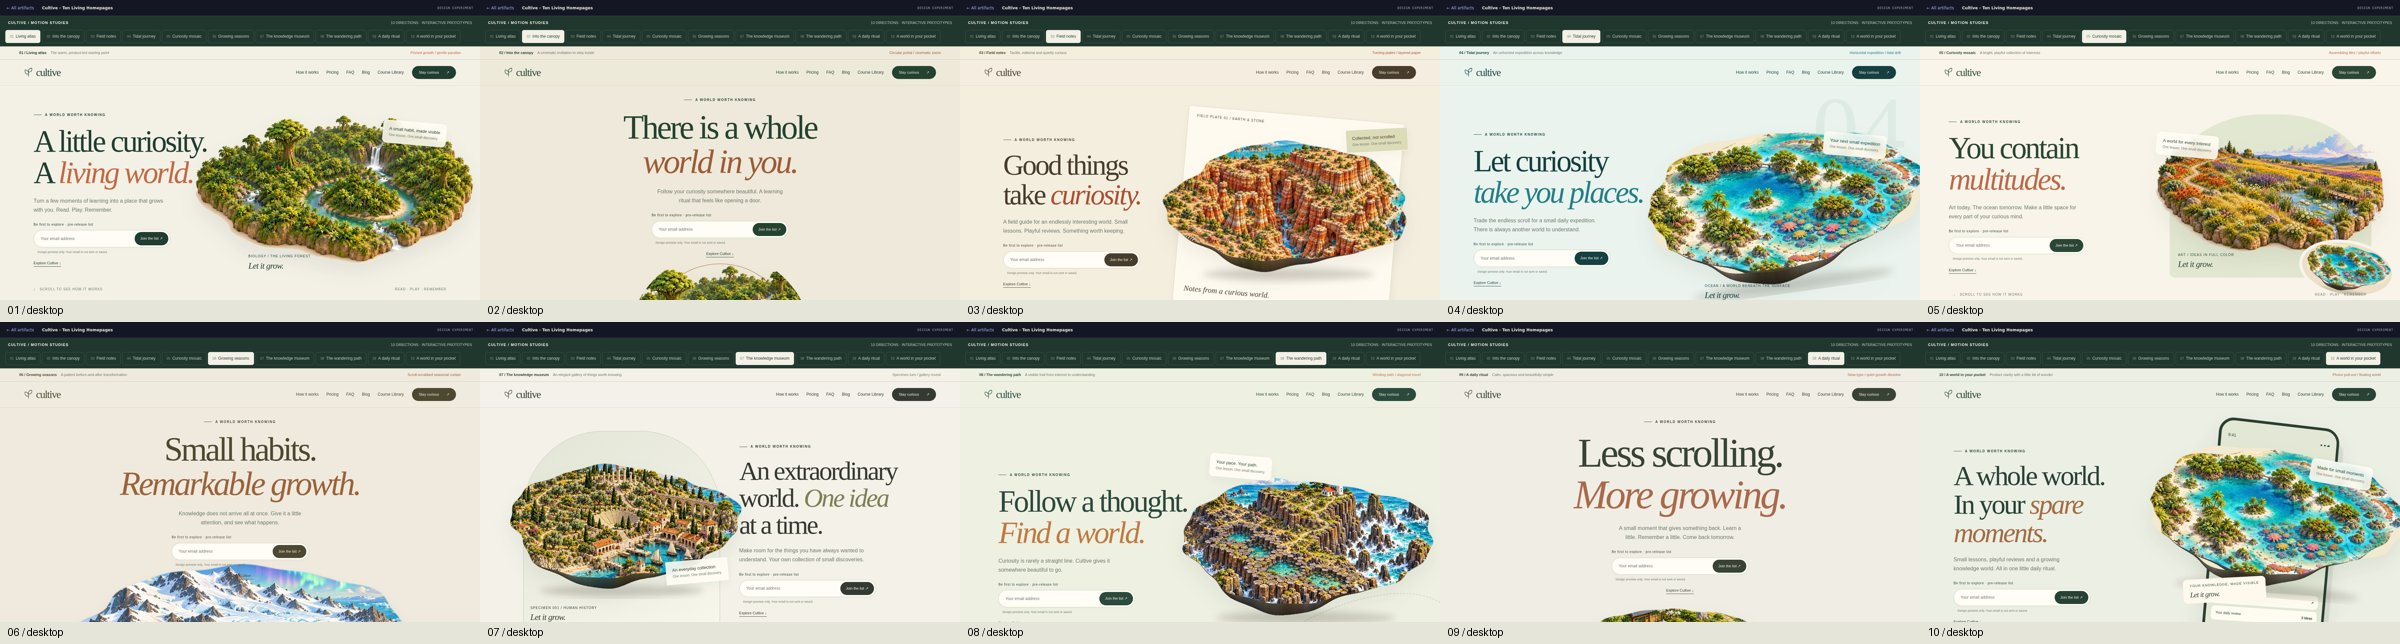
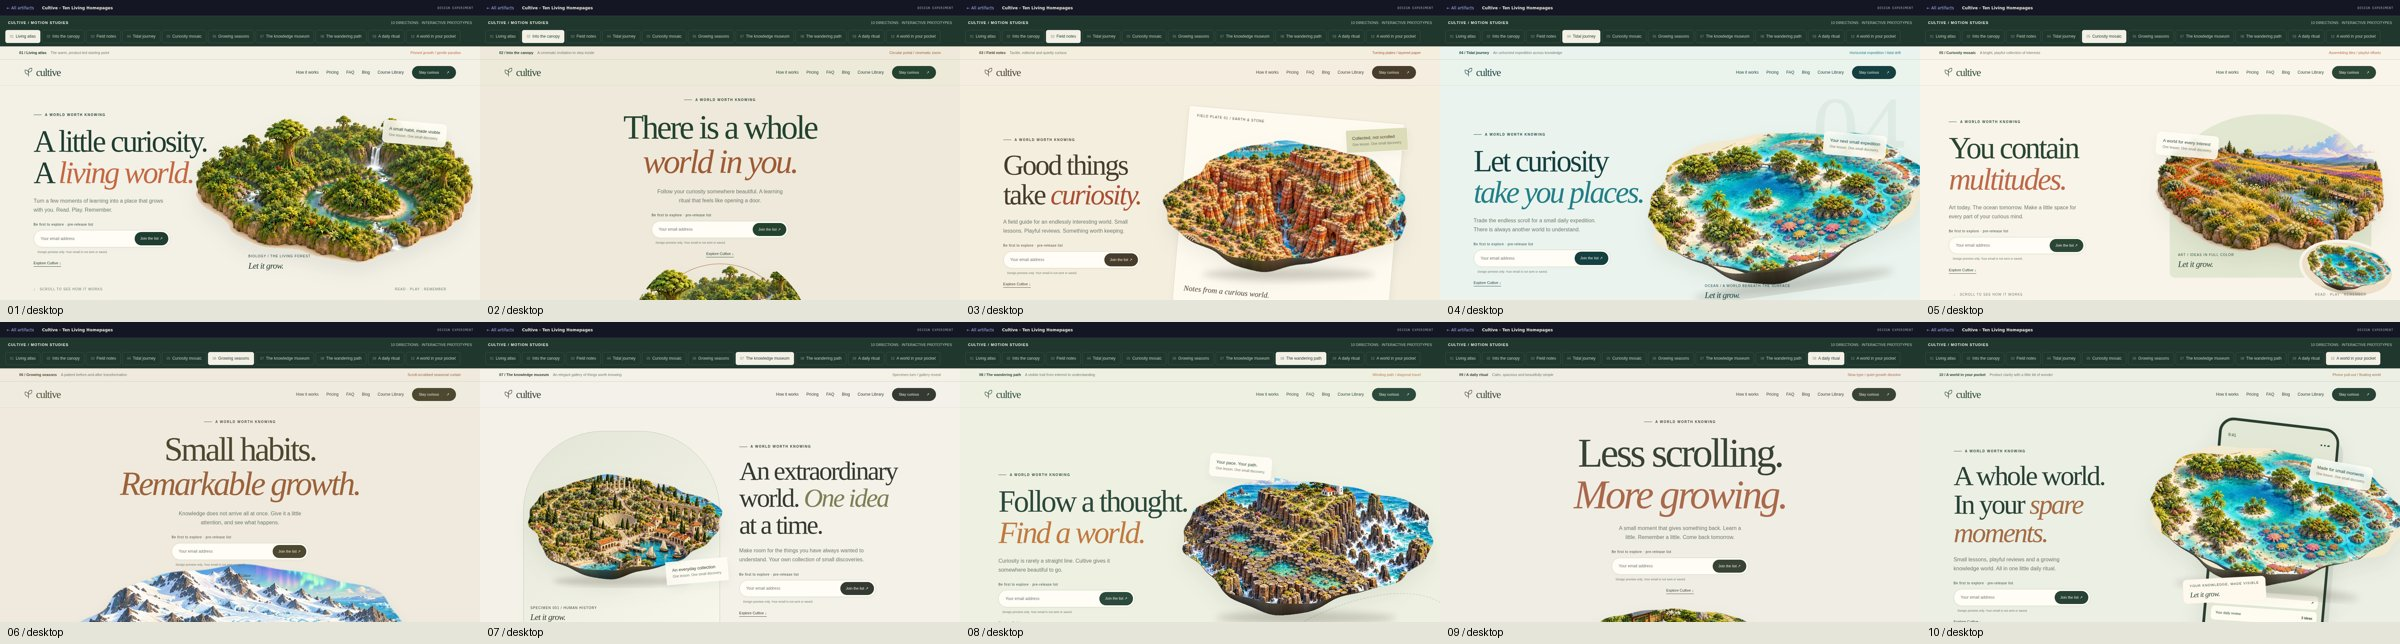
Keep Museum headline clear and sequence text transitions

Changed region(s): [[0.1875, 0.7143, 0.3125, 0.9317]]

diff --git a/ui/src/artifacts/2026-11-16-cultive-living-homepages.html b/ui/src/artifacts/2026-11-16-cultive-living-homepages.html
@@ -36,6 +36,7 @@
 .badge-world{position:absolute;width:120%;left:-10%;top:10%;opacity:.16;filter:blur(.3px);transform:scale(calc(.95 + var(--local)*.06));z-index:-1}.badge-world-lush{opacity:calc(.15 + var(--local)*.2)}.badge-sun{z-index:0}.scene-badges .visual-caption{z-index:3}.mode-9 .badge-world{top:24%}
 @media(min-width:701px) and (min-height:501px) and (max-height:760px){body[class^="mode-"] .hero{align-items:start;padding-top:28px;min-height:520px}body[class^="mode-"] .hero-copy{align-self:start}body[class^="mode-"] .hero-art{min-height:390px!important}}
 @media(max-width:700px){.mode-9 .question-paper{inset:15% 5% 15%;padding:14px}.mode-9 .question-paper h3{font-size:20px;margin:10px 0}.mode-9 .answer-option{padding:6px 8px;margin:4px 0;font-size:7px}.mode-9 .scene-question .visual-caption{font-size:10px;bottom:13px}.mode-9 .question-paper .tiny{font-size:6px}}
+.mode-6 .hero-art .island{width:105%}.workflow-scene{transition:opacity .12s linear,transform .7s cubic-bezier(.2,.7,.2,1);transition-delay:0s}.workflow-scene.active{transition:opacity .45s ease,transform .7s cubic-bezier(.2,.7,.2,1);transition-delay:.1s,.06s}.mode-5 .workflow-scene{transition:opacity .1s linear,clip-path .6s ease;transition-delay:0s}.mode-5 .workflow-scene.active{transition:opacity .35s ease,clip-path .65s ease;transition-delay:.1s,.06s}.mode-8 .workflow-scene{transition:opacity .12s linear;transition-delay:0s}.mode-8 .workflow-scene.active{transition:opacity .7s ease;transition-delay:.12s}@media(max-width:700px){.mode-6 .hero-art .island{width:110%}}
 </style></head><body>
 <div class="lab"><div class="lab-top"><b>Cultive / motion studies</b><span class="index">10 directions · interactive prototypes</span></div><div class="lab-tabs" role="tablist" aria-label="Homepage design directions"></div></div>
 <div id="app"></div><div class="toast" role="status"></div>

diff --git a/ui/tests/browser/cultive-homepage-motion.spec.js b/ui/tests/browser/cultive-homepage-motion.spec.js
@@ -41,3 +41,10 @@ test('reduced motion, keyboard navigation, local-only signup and playable quiz',
  const submissions=[];page.on('request',r=>{if(r.method()==='POST')submissions.push(r.url())});await v.locator('#signup-email').fill('preview@example.com');await v.locator('.signup button').click();await expect(v.locator('.toast')).toContainText('not been sent or saved');expect(submissions).toEqual([]);
  await v.locator('[data-answer="correct"]').click();await expect(v.locator('.quiz-feedback')).toContainText('Yes.');
 });
+
+test('Museum hero keeps illustration clear of headline and scene text does not ghost',async({page})=>{
+ await page.setViewportSize({width:1440,height:900});const v=await open(page);await v.locator('.lab-tabs button').nth(6).click();
+ const art=await v.locator('.hero-art .island').boundingBox(),title=await v.locator('.hero-copy h1').boundingBox();expect(art.x+art.width).toBeLessThan(title.x-15);
+ await v.locator('.scroll-story').evaluate(el=>window.scrollTo({top:el.offsetTop-174,behavior:'instant'}));await v.locator('[data-step="2"]').click();await page.waitForTimeout(800);await v.locator('[data-step="3"]').click();await page.waitForTimeout(150);
+ const visible=await v.locator('.workflow-scene').evaluateAll(nodes=>nodes.filter(n=>parseFloat(getComputedStyle(n).opacity)>.2).length);expect(visible).toBeLessThanOrEqual(1);
+});
